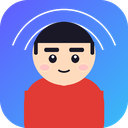
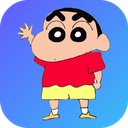
feat: 图标换成小新立绘原图
用户提供了 assets/brand/shinchan.png，直接用它做图标，不再用手绘近似。

合成方式（scripts/make_brand.py 重写）
    原图已抠好透明底，但是**紧裁**的：头发顶到上边缘、手脚贴着左右下边缘。
    所以合成时自己留内边距（全身 88%、头像 94%），否则放大后人物顶满方块、
    贴着圆角被切掉。底板沿用品牌靛蓝渐变 —— 红黄暖色压冷底，小尺寸也能
    一眼看出是人。

两个尺寸分支
    16/32 用头像特写。全身像在 16px 下只剩一团红黄色块，脸完全认不出；
    横向中心取 0.56 而不是 0.5 —— 原图左手举在左侧，人物头其实偏右，
    按正中裁会把脸切掉一半。
    侧栏 logo（36px）同样用头像特写，理由一样。

悬浮球
    从手写 SVG 换成图标原图，需要 manifest 声明 web_accessible_resources。
    同时留了矢量兜底：个别站点 CSP 会拦扩展资源，那时至少不会是空白圆球。

版本 v0.13.0（扩展 0.13.0）。测试 8 套全绿。

diff --git a/extension/content.js b/extension/content.js
@@ -707,6 +707,7 @@
           box-shadow: 0 6px 18px rgba(80, 70, 200, .32);
           transition: transform .16s ease, box-shadow .16s ease;
         }
+        .toggle img, .toggle svg { display: block; width: 100%; height: 100%; }
         .toggle:hover { transform: translateY(-2px); box-shadow: 0 10px 24px rgba(80, 70, 200, .38); }
         .toggle:active { transform: translateY(0); }
         .panel {
@@ -766,7 +767,8 @@
         <div id="result"></div>
       </div>
       <button class="toggle" id="toggle" title="小新求职 · 点开看这个岗位能不能投">
-        <svg viewBox="0 0 52 52" width="52" height="52" aria-hidden="true">
+        <img id="toggle-img" alt="" width="52" height="52">
+        <svg id="toggle-fallback" viewBox="0 0 52 52" width="52" height="52" aria-hidden="true" hidden>
           <defs>
             <linearGradient id="gpBrand" x1="0" y1="0" x2="1" y2="1">
               <stop offset="0" stop-color="#635BFF"/>
@@ -786,8 +788,6 @@
           <rect x="29.4" y="24.6" width="6" height="2.4" rx="1.2" fill="#1a1826"/>
           <circle cx="21.6" cy="29.6" r="2" fill="#1a1826"/>
           <circle cx="30.4" cy="29.6" r="2" fill="#1a1826"/>
-          <circle cx="21.1" cy="28.9" r="0.7" fill="#fff"/>
-          <circle cx="29.9" cy="28.9" r="0.7" fill="#fff"/>
           <path d="M22.4 31.6q3.6 2.6 7.2 0" stroke="#1a1826" stroke-width="1.5" fill="none" stroke-linecap="round"/>
         </svg>
       </button>
@@ -805,6 +805,23 @@
     shadow.getElementById('toggle').addEventListener('click', () => {
       ui.panel.classList.toggle('show');
     });
+
+    // 悬浮球用图标原图（而不是手写的 SVG 近似）：扩展资源要在 manifest 里
+    // 声明 web_accessible_resources，页面上下文才加载得到。
+    // 个别站点 CSP 很严，会把它拦掉 —— 那时退回一张内联矢量图，
+    // 至少不会变成一个空白圆球
+    const toggleImg = shadow.getElementById('toggle-img');
+    const toggleFallback = shadow.getElementById('toggle-fallback');
+    if (toggleImg && chrome.runtime && chrome.runtime.id) {
+      toggleImg.addEventListener('error', () => {
+        toggleImg.hidden = true;
+        if (toggleFallback) toggleFallback.hidden = false;
+      }, { once: true });
+      toggleImg.src = chrome.runtime.getURL('icon128.png');
+    } else if (toggleImg && toggleFallback) {
+      toggleImg.hidden = true;
+      toggleFallback.hidden = false;
+    }
     shadow.getElementById('close').addEventListener('click', () => {
       ui.panel.classList.remove('show');
     });

diff --git a/backend/static/app.js b/backend/static/app.js
@@ -2287,8 +2287,8 @@ async function checkHealth() {
 // 之前把「2026-10-26a · 一键发现 + 消息监控」整行铺在侧栏底部，
 // 看起来像调试输出漏到了界面上；但它确实有用 ——
 // 改完样式后分不清"没生效"和"没刷新"时，靠它一眼确认。
-const APP_VERSION = 'v0.12.0';
-const BUILD_TAG = '2026-10-26c · 小新求职';
+const APP_VERSION = 'v0.13.0';
+const BUILD_TAG = '2026-10-26d · 小新立绘图标';
 const buildTagEl = document.getElementById('build-tag');
 if (buildTagEl) {
   buildTagEl.textContent = `${APP_VERSION} · 本地`;

diff --git a/backend/static/index.html b/backend/static/index.html
@@ -5,7 +5,7 @@
 <meta name="viewport" content="width=device-width, initial-scale=1">
 <title>小新求职 · 本地求职副驾</title>
 <link rel="icon" href="./logo96.png" type="image/png">
-<link rel="stylesheet" href="./style.css?v=20261026e">
+<link rel="stylesheet" href="./style.css?v=20261026f">
 </head>
 <body>
 
@@ -324,6 +324,6 @@
 </div>
 
 <div class="toast" id="toast"></div>
-<script src="./app.js?v=20261026e"></script>
+<script src="./app.js?v=20261026f"></script>
 </body>
 </html>

diff --git a/scripts/make_brand.py b/scripts/make_brand.py
@@ -1,15 +1,19 @@
 """生成品牌图标（扩展图标 + 网页 logo）。
 
-为什么用脚本画而不是丢一张设计稿进来
-    图标会在 5 个尺寸上出现（16 / 32 / 48 / 128 / 256），手绘一次再逐尺寸导出，
-    小尺寸必然糊。这里用 4 倍超采样 + LANCZOS 缩放，每个尺寸都是独立渲染的；
-    而且改配色只改一个常量，不用回去翻设计软件。
+素材
+    assets/brand/shinchan.png —— 小新立绘（用户提供的素材）。
+    原图已经抠好透明底，但人物是**紧裁**的：头发顶到上边缘、手脚贴着左右下边缘，
+    所以合成时必须自己留出内边距，否则放大之后人会顶满整个方块。
 
-形象
-    「小新求职」—— 红衣黄裤、粗眉圆脸、额头露出来的短发小孩。
-    角色形象属于《蜡笔小新》（原作 臼井仪人 / 版权 双叶社），
-    本项目按用户要求做个人本地使用，不做商业分发、不对外提供服务。
-    如果要公开发布或商用，这个图标必须换掉 —— 角色形象受版权保护。
+为什么用脚本而不是丢五张图进来
+    图标要出 16 / 32 / 48 / 128 / 256 五个尺寸。手工导出五遍，改一次素材就要
+    重来五遍；脚本是 4 倍超采样、每个尺寸独立合成，小尺寸还会自动换成头像特写
+    （全身像在 16px 下只剩一团色块）。
+
+版权
+    角色形象属于《蜡笔小新》（原作 臼井仪人 / 版权 双叶社）。
+    本项目按用户要求做个人本地使用，不商业分发、不对外提供服务。
+    要公开发布或商用，这个素材必须换掉。
 
 用法：python scripts/make_brand.py
 """
@@ -24,14 +28,12 @@ from PIL import Image, ImageDraw
 ROOT = Path(__file__).resolve().parent.parent
 EXT = ROOT / "extension"
 STATIC = ROOT / "backend" / "static"
+SRC = ROOT / "assets" / "brand" / "shinchan.png"
 
-# 配色取自角色本身：红衣 + 黄裤，压在冷色底板上对比最强，小尺寸也能一眼认出
+# 底板沿用品牌靛蓝渐变：人物是红黄暖色，压在冷底上对比最强，
+# 小尺寸也能一眼看出是人而不是一块色斑
 BG_FROM = (99, 91, 255)
 BG_TO = (56, 189, 248)
-SKIN = (255, 219, 189)
-HAIR = (26, 24, 38)
-SHIRT = (226, 58, 52)
-BLUSH = (255, 148, 148)
 
 SS = 4  # 超采样倍数
 
@@ -47,118 +49,52 @@ def _gradient(size: int) -> Image.Image:
     return Image.fromarray(arr, "RGBA")
 
 
+def _rounded_mask(size: int, radius: int) -> Image.Image:
+    mask = Image.new("L", (size, size), 0)
+    ImageDraw.Draw(mask).rounded_rectangle([0, 0, size - 1, size - 1], radius=radius, fill=255)
+    return mask
+
+
+def _load_figure() -> Image.Image:
+    if not SRC.exists():
+        raise SystemExit(f"找不到素材：{SRC.relative_to(ROOT)}")
+    return Image.open(SRC).convert("RGBA")
+
+
+def _head_crop(fig: Image.Image) -> Image.Image:
+    """裁出头像。小尺寸只用脸，全身像在 16px 下会糊成一团色块。
+
+    横向中心取 0.56 而不是 0.5：原图左手举在左侧，人物的头其实偏右，
+    按正中裁会把脸切掉一半。
+    """
+    w, h = fig.size
+    side = int(min(h * 0.62, w))
+    cx = int(w * 0.56)
+    left = max(0, min(w - side, cx - side // 2))
+    return fig.crop((left, 0, left + side, side))
+
+
 def draw_icon(size: int, compact: bool = False) -> Image.Image:
-    """画一张 size×size 的图标。compact=True 时只画头（小尺寸用）。"""
+    """合成一张 size×size 图标。compact=True 时用头像特写（16/32 用）。"""
     s = size * SS
-    radius = int(s * 0.22)
+    mask = _rounded_mask(s, int(s * 0.22))
 
-    mask = Image.new("L", (s, s), 0)
-    ImageDraw.Draw(mask).rounded_rectangle([0, 0, s - 1, s - 1], radius=radius, fill=255)
-    img = Image.new("RGBA", (s, s), (0, 0, 0, 0))
-    img.paste(_gradient(s), (0, 0), mask)
-    d = ImageDraw.Draw(img, "RGBA")
+    base = Image.new("RGBA", (s, s), (0, 0, 0, 0))
+    base.paste(_gradient(s), (0, 0), mask)
 
-    # 背景雷达弧：暗示"盯着"，同时给小尺寸一点纹理
-    for r, alpha in ((0.86, 24), (0.66, 28), (0.46, 32)):
-        box = [int(s * (0.5 - r / 2)), int(s * (0.5 - r / 2)),
-               int(s * (0.5 + r / 2)), int(s * (0.5 + r / 2))]
-        d.arc(box, start=200, end=340, fill=(255, 255, 255, alpha), width=max(2, int(s * 0.012)))
+    fig = _head_crop(_load_figure()) if compact else _load_figure()
+    # 内边距：留 6%（头像）/ 9%（全身），否则人会顶满方块、贴着圆角
+    box = s * (0.88 if not compact else 0.94)
+    scale = min(box / fig.width, box / fig.height)
+    fw, fh = max(1, int(fig.width * scale)), max(1, int(fig.height * scale))
+    fig = fig.resize((fw, fh), Image.LANCZOS)
 
-    if compact:
-        cx, cy = s * 0.50, s * 0.50
-        R = s * 0.33
-        body_top = s * 0.82
-    else:
-        cx, cy = s * 0.50, s * 0.42
-        R = s * 0.245
-        body_top = s * 0.60
+    base.alpha_composite(fig, ((s - fw) // 2, (s - fh) // 2))
 
-    # ---------- 身体：红上衣，做成半身像 ----------
-    # 试过把黄短裤也画出来，但在方形图标里只剩底部一条黄边，
-    # 看起来像人被一条黄杠截断 —— 半身像反而干净，红衣服本身已经足够认人
-    bw = R * 2.55
-    d.rounded_rectangle(
-        [cx - bw / 2, body_top, cx + bw / 2, s * 1.16],
-        radius=int(bw * 0.34), fill=SHIRT,
-    )
-    d.rectangle(
-        [cx - bw / 2 + 2, body_top + R * 0.45, cx + bw / 2 - 2, s * 1.16],
-        fill=SHIRT,
-    )
-
-    # 脖子：一小段，被上衣压住一半
-    d.ellipse(
-        [cx - R * 0.24, cy + R * 0.62, cx + R * 0.24, cy + R * 1.02],
-        fill=(242, 200, 168),
-    )
-
-    # ---------- 头 ----------
-    d.ellipse([cx - R, cy - R, cx + R, cy + R], fill=SKIN)
-
-    # ---------- 头发：只有头顶一片 + 两侧鬓角 ----------
-    # 这个形象的关键是**额头大面积露出来**。用整圆盖住上半会让脸只剩一条缝，
-    # 认不出是谁；所以先画整头黑，再把额头以下挖掉
-    hair = Image.new("RGBA", (s, s), (0, 0, 0, 0))
-    hd = ImageDraw.Draw(hair)
-    hd.ellipse([cx - R, cy - R * 1.02, cx + R, cy + R * 0.98], fill=HAIR)
-    hd.rectangle([0, cy - R * 0.34, s, s], fill=(0, 0, 0, 0))
-    img.alpha_composite(hair)
-    d = ImageDraw.Draw(img, "RGBA")
-
-    # 鬓角：起于发际线上方（和头顶那一片连起来），到耳朵高度收住。
-    # 必须窄——宽一点就变成戴耳机，这个坑踩过一次
-    for sign in (-1, 1):
-        x_out = cx + sign * R * 0.90
-        d.rounded_rectangle(
-            [x_out - R * 0.055, cy - R * 0.40, x_out + R * 0.055, cy + R * 0.02],
-            radius=int(R * 0.05), fill=HAIR,
-        )
-
-    # ---------- 五官 ----------
-    # 眉毛：又粗又横，是这个形象第一眼认得出的地方。
-    # 做成斜的会变成"生气脸"—— 先试了外高内低的梯形，整张脸立刻凶了起来
-    brow_y = cy - R * 0.13
-    brow_w = R * 0.46
-    brow_h = R * 0.125
-    for sign in (-1, 1):
-        bx = cx + sign * R * 0.40
-        d.rounded_rectangle(
-            [bx - brow_w / 2, brow_y - brow_h / 2, bx + brow_w / 2, brow_y + brow_h / 2],
-            radius=int(brow_h * 0.42), fill=HAIR,
-        )
-
-    # 眼睛：黑豆 + 高光
-    eye_r = R * 0.125
-    for sign in (-1, 1):
-        ex = cx + sign * R * 0.36
-        ey = cy + R * 0.16
-        d.ellipse([ex - eye_r, ey - eye_r * 1.05, ex + eye_r, ey + eye_r * 1.05], fill=HAIR)
-        d.ellipse(
-            [ex - eye_r * 0.30, ey - eye_r * 0.82, ex + eye_r * 0.34, ey - eye_r * 0.18],
-            fill=(255, 255, 255, 235),
-        )
-
-    # 腮红
-    for sign in (-1, 1):
-        ex = cx + sign * R * 0.62
-        ey = cy + R * 0.44
-        d.ellipse(
-            [ex - R * 0.15, ey - R * 0.09, ex + R * 0.15, ey + R * 0.09],
-            fill=BLUSH + (140,),
-        )
-
-    # 嘴：细一点的小笑。线一粗就变成胡子（第一版就是这个问题）
-    d.arc(
-        [cx - R * 0.20, cy + R * 0.38, cx + R * 0.20, cy + R * 0.60],
-        start=20, end=160, fill=HAIR, width=max(2, int(R * 0.06)),
-    )
-
-    return img.resize((size, size), Image.LANCZOS)
-
-
-def draw_web_logo(size: int) -> Image.Image:
-    """网页侧栏用的方形圆角 logo。"""
-    return draw_icon(size)
+    # 再套一次圆角：人物可能压到角上，超出底板的部分要切掉
+    out = Image.new("RGBA", (s, s), (0, 0, 0, 0))
+    out.paste(base, (0, 0), mask)
+    return out.resize((size, size), Image.LANCZOS)
 
 
 def main() -> int:
@@ -166,14 +102,15 @@ def main() -> int:
     STATIC.mkdir(parents=True, exist_ok=True)
 
     for size in (16, 32, 48, 128, 256):
-        # 16/32 太小，画全身会糊成一团 —— 只画头
         out = EXT / f"icon{size}.png"
         draw_icon(size, compact=size <= 32).save(out, optimize=True)
         print(f"  {out.relative_to(ROOT)}  {size}x{size}")
 
+    # 侧栏 logo 只有 36px，用头像特写：全身像在 36px 下脸只剩十几个像素，
+    # 而侧栏里用户唯一需要认出来的是"这是谁"
     for size in (96, 192):
         out = STATIC / f"logo{size}.png"
-        draw_web_logo(size).save(out, optimize=True)
+        draw_icon(size, compact=True).save(out, optimize=True)
         print(f"  {out.relative_to(ROOT)}  {size}x{size}")
 
     print("完成")
